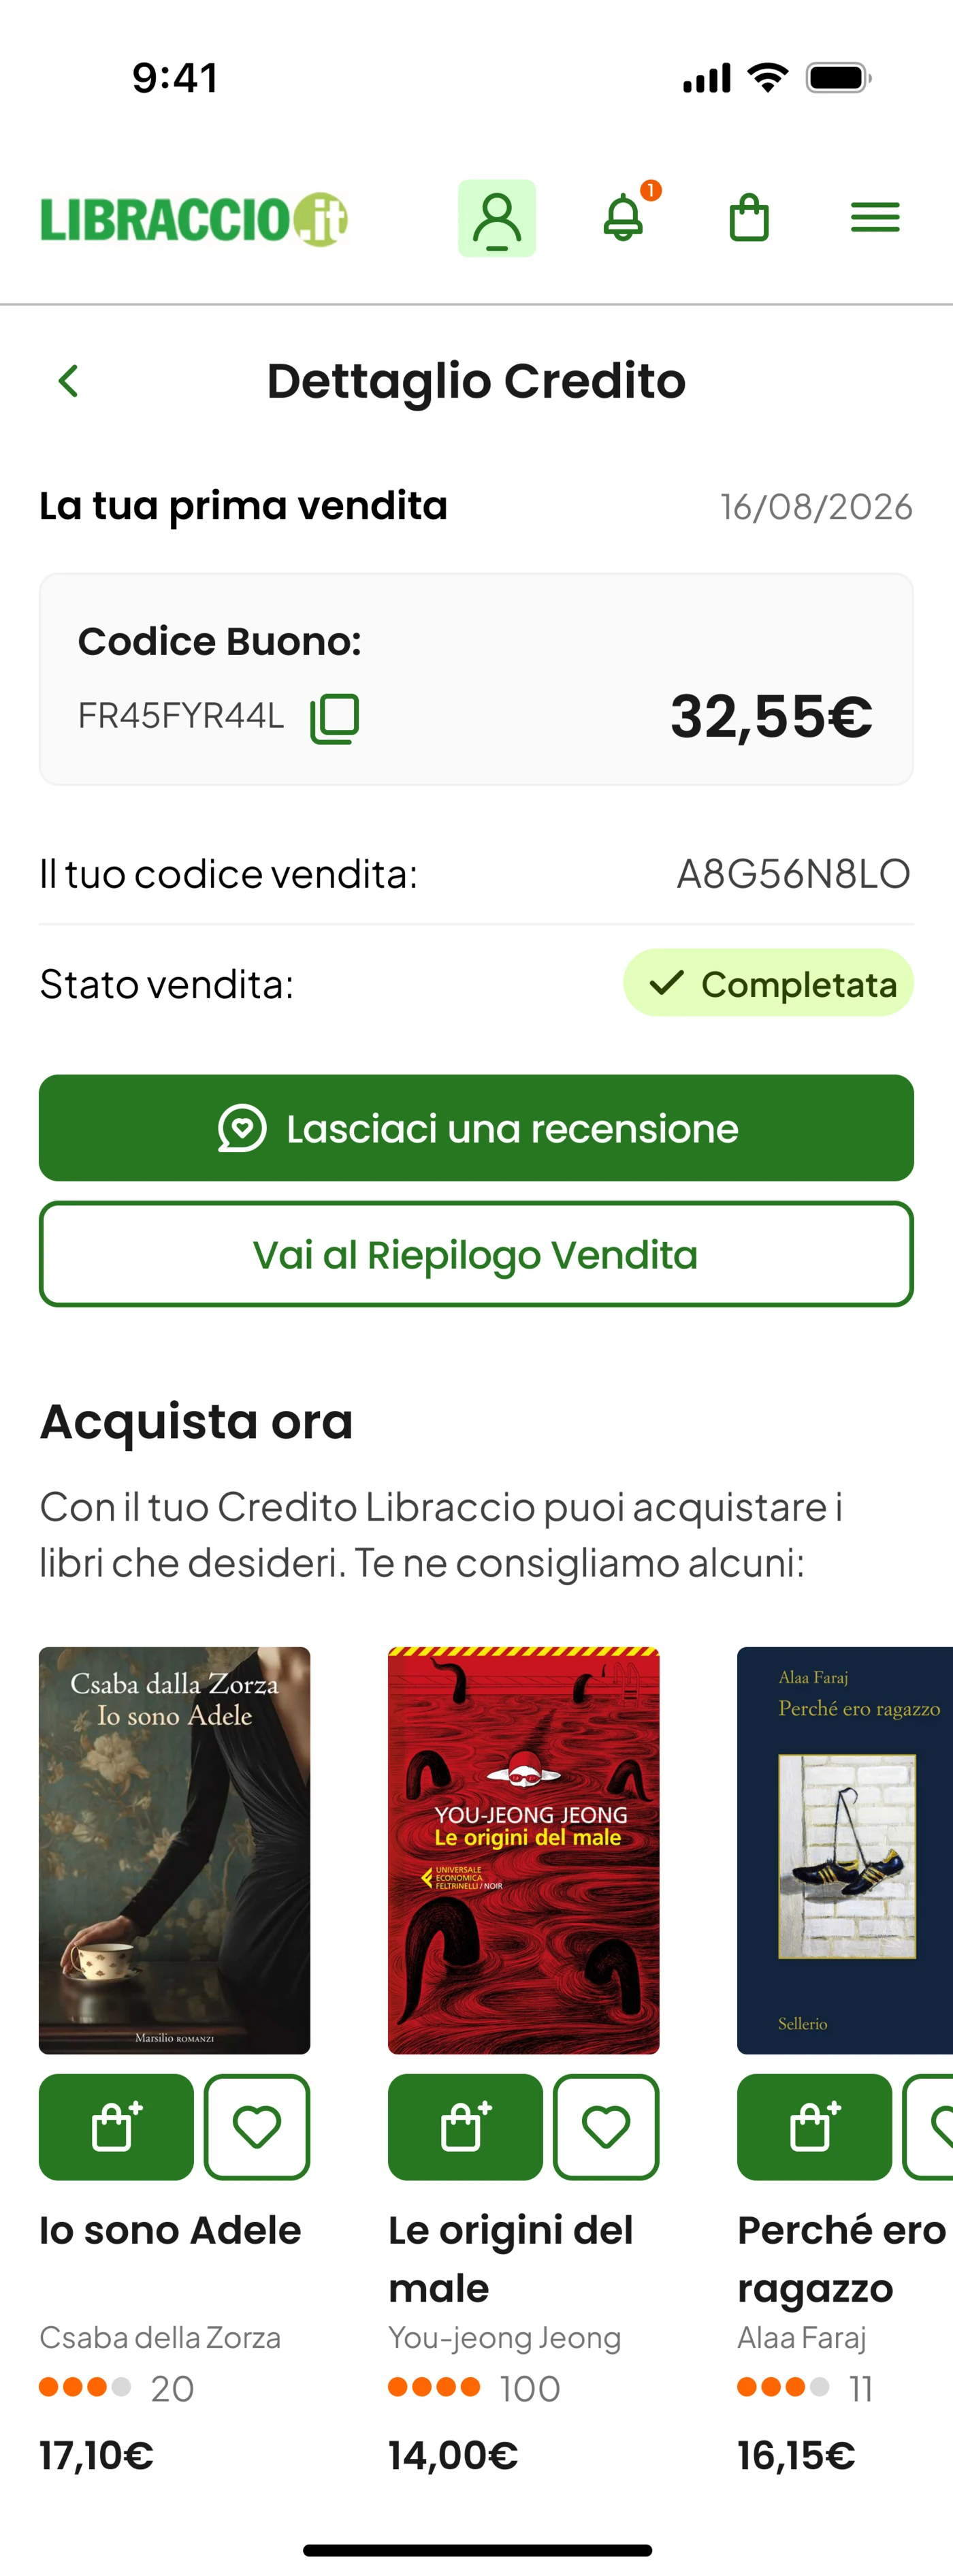
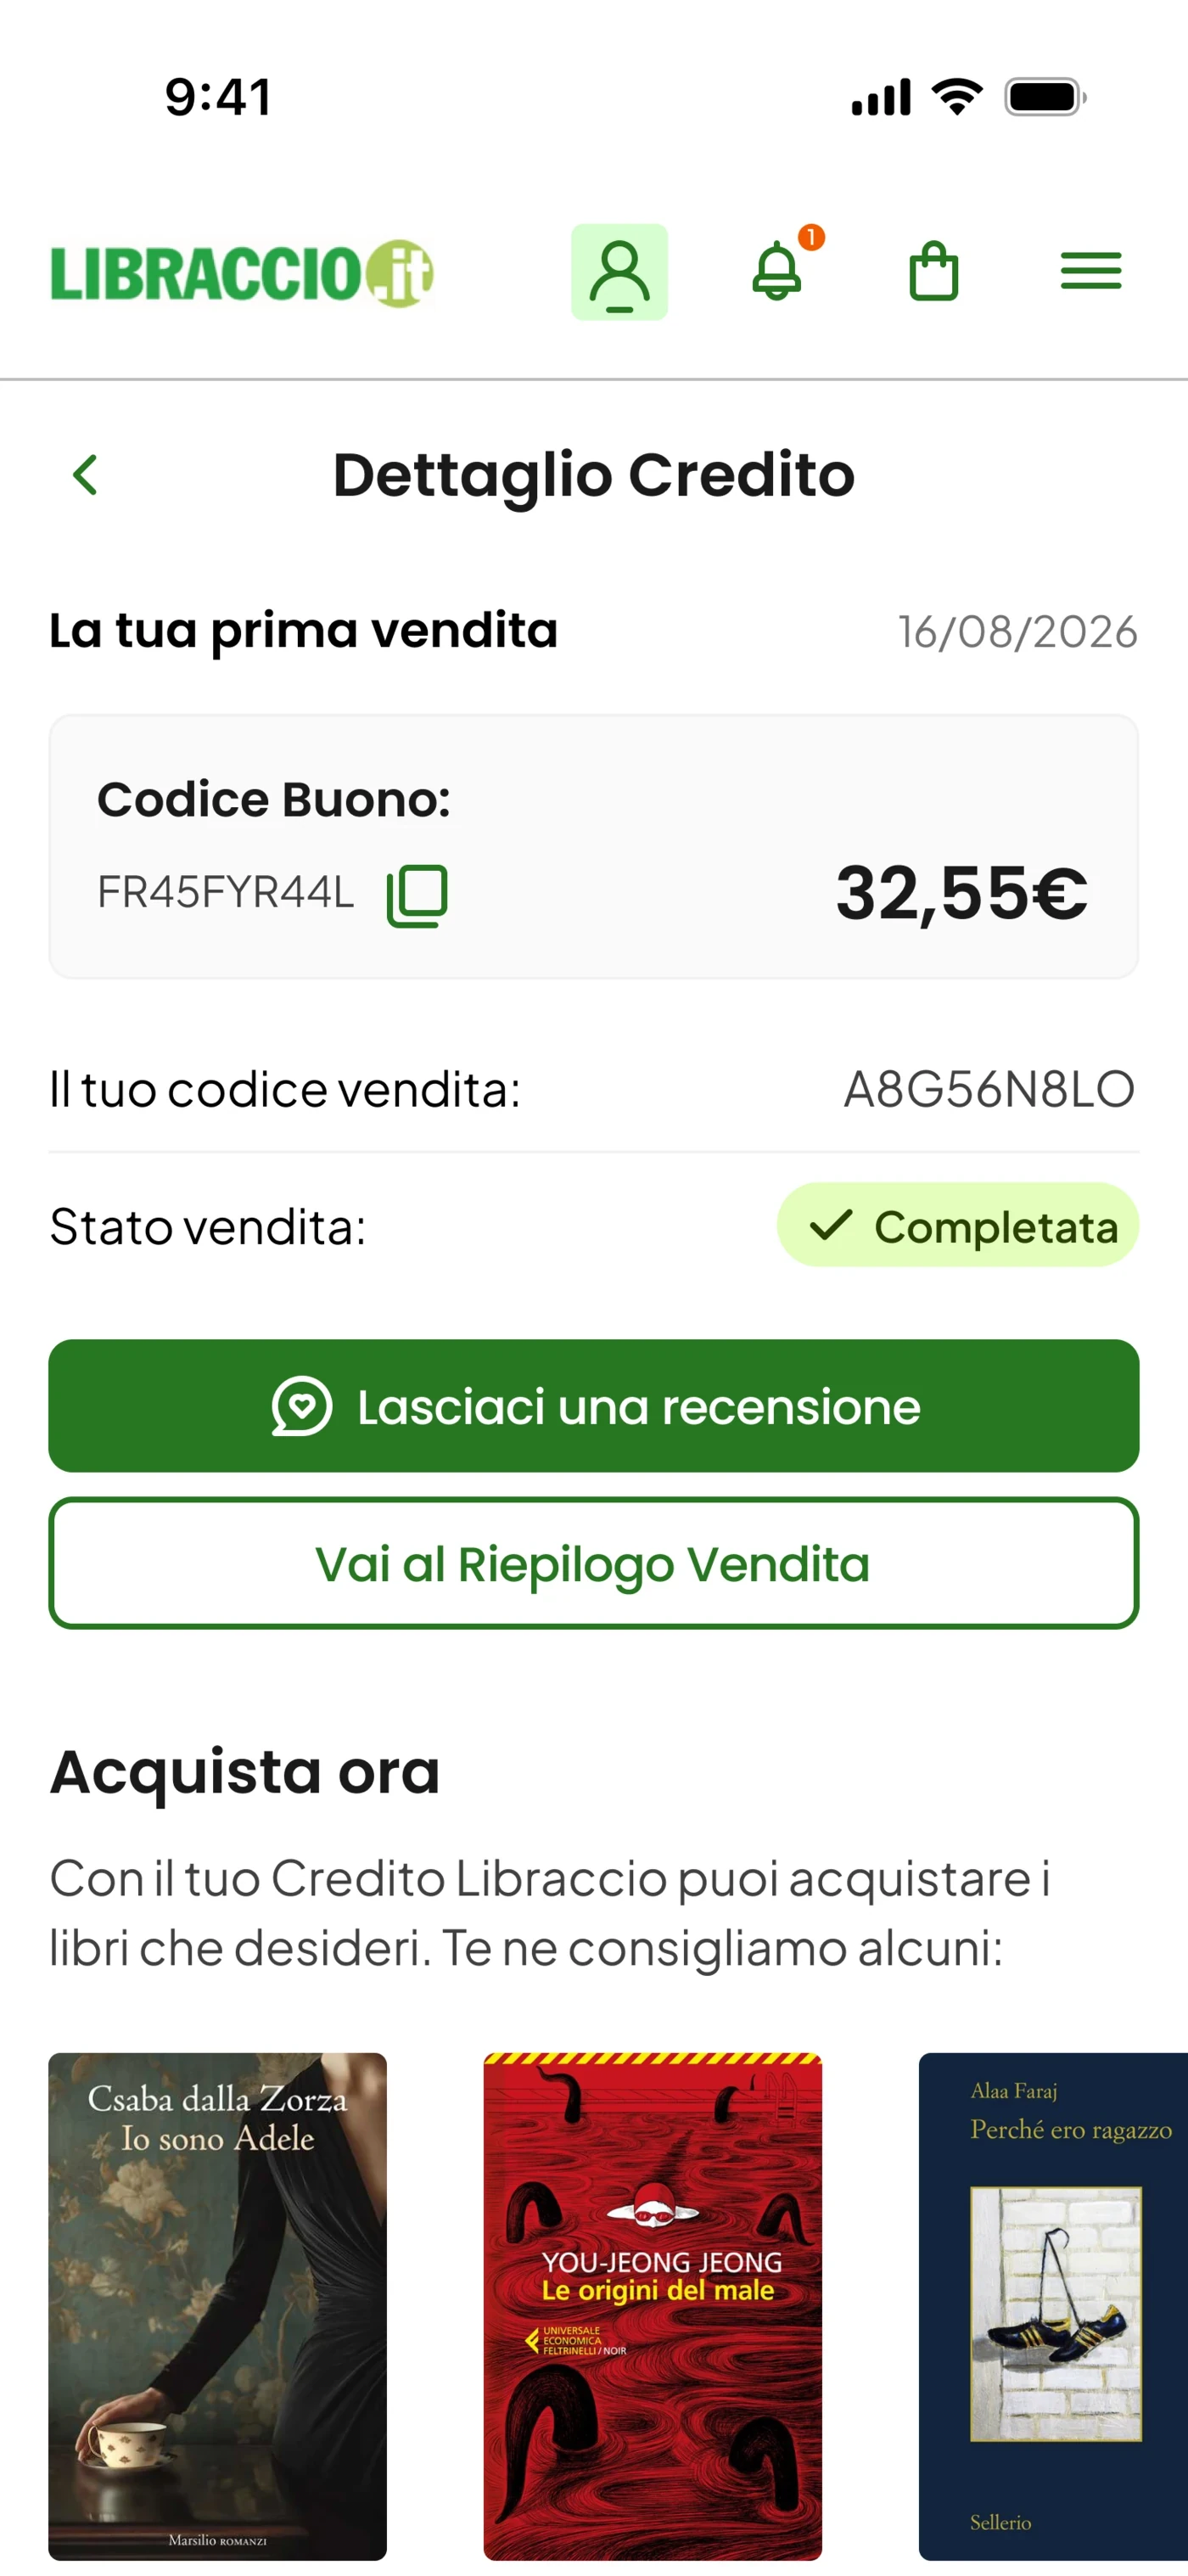
Libraccio: fix dimensioni interfacce, allineamento sezione 05, foto personas
- rifiutati e credito ritagliate all'altezza standard (come le altre interfacce)
- sezione 05 (Cosa ho imparato) allineata a sinistra, non più centrata
- foto personas: object-position top per non tagliare le teste

diff --git a/style.css b/style.css
@@ -1631,7 +1631,7 @@ em {
 /* Sezioni */
 .lib-section { padding: clamp(3.5rem, 8vw, 6.5rem) 0; }
 .lib-section--green { background: transparent; }
-.lib-narrow { max-width: 760px; }
+.lib-narrow { max-width: 820px; margin-left: max(4vw, calc((100vw - 1200px) / 2)); margin-right: auto; }
 .lib-num { font-family: var(--font-mono); font-size: 0.8rem; letter-spacing: 0.06em; color: var(--lg-dark); margin-bottom: 1.2rem; }
 .lib-lead { font-size: clamp(1.5rem, 3.4vw, 2.3rem); font-weight: 400; line-height: 1.25; letter-spacing: -0.02em; margin-bottom: 1.5rem; }
 .lib-lead strong, .lib-section p strong { font-weight: 600; color: var(--lg-dark); }
@@ -1691,7 +1691,7 @@ em {
 .lib-cover-hero img { width: 100%; max-width: 1000px; margin: 0 auto; display: block; }
 .lib-wide-shot { margin: clamp(2rem, 5vw, 3.5rem) 0 0; text-align: center; }
 .lib-wide-shot img { width: 100%; max-width: 860px; margin: 0 auto; display: block; border-radius: 16px; }
-.lib-pers-photo { width: 100%; aspect-ratio: 1 / 1; object-fit: cover; border-radius: 12px; margin-bottom: 1.1rem; }
+.lib-pers-photo { width: 100%; aspect-ratio: 4 / 5; object-fit: cover; object-position: top center; border-radius: 12px; margin-bottom: 1.1rem; }
 .lib-shot img { max-width: 100%; }
 .lib-ava { width: 84px; height: 84px; border-radius: 50%; object-fit: cover; display: block; background: var(--lg-soft); }
 